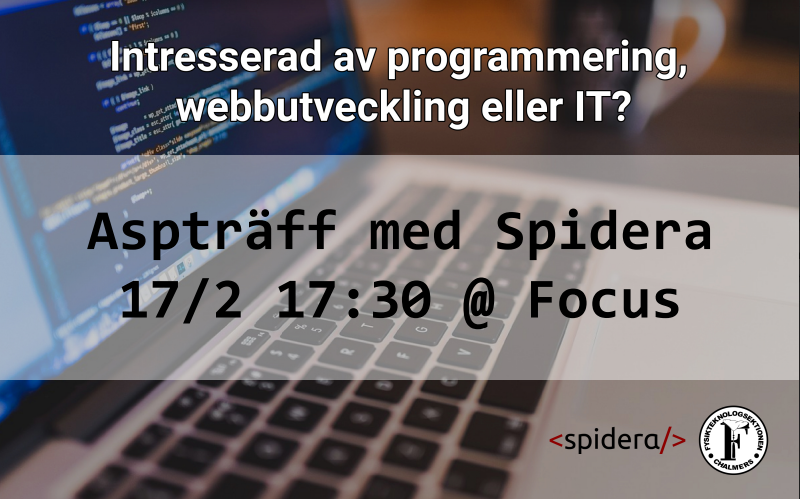
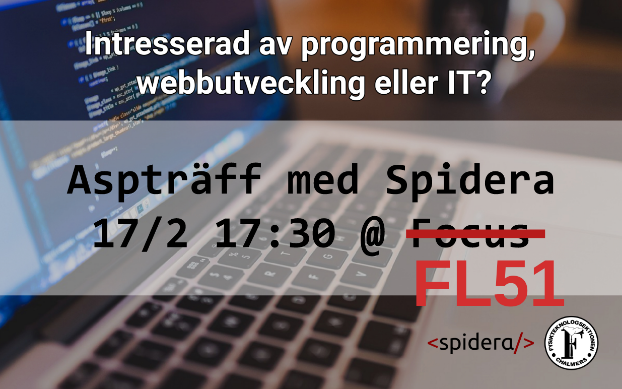
Change of location

diff --git a/build/popup.tsx.js b/build/popup.tsx.js
@@ -1,1 +1,1 @@
-!function(){"use strict";var e=window.wp.element,t=window.wp.components,n=window.wp.i18n;function o(){const[o,a]=(0,e.useState)(!1);return(0,e.useEffect)((()=>{const e=setTimeout((()=>{a(!0)}),1e4);return()=>clearTimeout(e)}),[]),o?(0,e.createElement)(t.Modal,{title:(0,n.__)("Visit the asp of Spidera!","spidera-asp"),onRequestClose:()=>a(!1)},(0,e.createElement)("img",{className:"asp-img",src:php.imgUrl})):(0,e.createElement)(e.Fragment,null)}document.addEventListener("DOMContentLoaded",(()=>{const t=document.createElement("div");document.body.appendChild(t),(0,e.render)((0,e.createElement)(o,null),t)}))}();
+!function(){"use strict";var e=window.wp.element,t=window.wp.components,n=window.wp.i18n;function o(){const[o,a]=(0,e.useState)(!1);return(0,e.useEffect)((()=>{const e=setTimeout((()=>{a(!0)}),1e4);return()=>clearTimeout(e)}),[]),o?(0,e.createElement)(t.Modal,{title:(0,n.__)("OBS: Change of location! Visit the asp of Spidera!","spidera-asp"),onRequestClose:()=>a(!1)},(0,e.createElement)("img",{className:"asp-img",src:php.imgUrl})):(0,e.createElement)(e.Fragment,null)}document.addEventListener("DOMContentLoaded",(()=>{const t=document.createElement("div");document.body.appendChild(t),(0,e.render)((0,e.createElement)(o,null),t)}))}();

diff --git a/src/popup.tsx b/src/popup.tsx
@@ -39,7 +39,10 @@ function Popup(): JSX.Element {
 
 	return (
 		<Modal
-			title={__('Visit the asp of Spidera!', 'spidera-asp')}
+			title={__(
+				'OBS: Change of location! Visit the asp of Spidera!',
+				'spidera-asp'
+			)}
 			onRequestClose={closeModal}
 		>
 			<img className="asp-img" src={php.imgUrl} />

diff --git a/build/popup.tsx.asset.php b/build/popup.tsx.asset.php
@@ -1,1 +1,1 @@
-<?php return array('dependencies' => array('wp-components', 'wp-element', 'wp-i18n'), 'version' => '655516ab21068a9c1b6f0e998a044032');
+<?php return array('dependencies' => array('wp-components', 'wp-element', 'wp-i18n'), 'version' => '31e88d57f1287984e46e1a556942470c');
